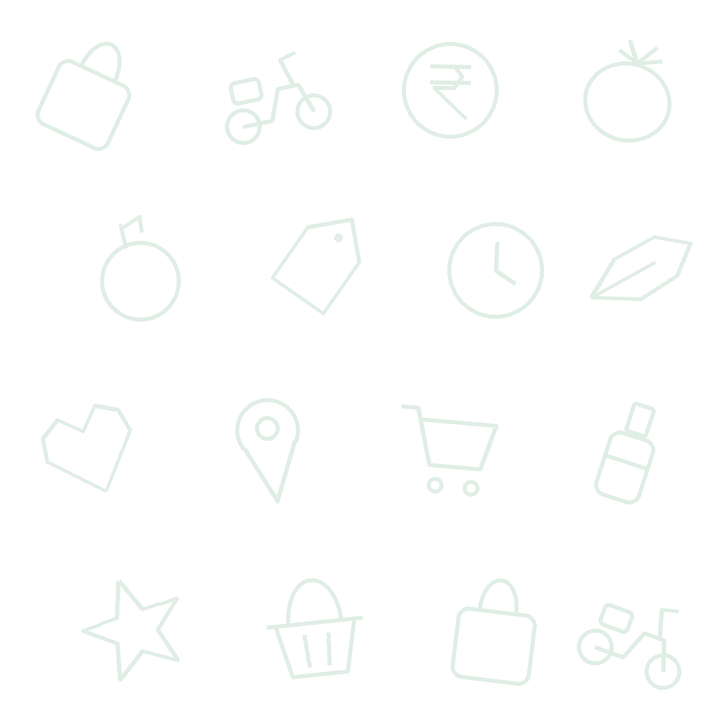
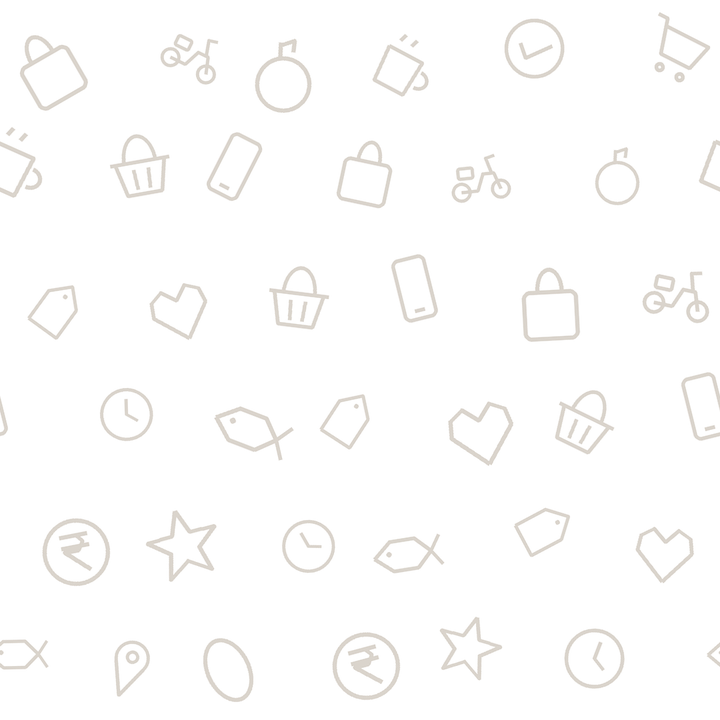
Doodle background: denser WhatsApp-like tile, beige/dark chat base
Claude-Session: https://claude.ai/code/session_013bFooV4NbFYtGjFxvE6vgd

diff --git a/lib/widgets.dart b/lib/widgets.dart
@@ -1096,7 +1096,7 @@ class BgPattern extends StatelessWidget {
     final dark = context.select<AppState, bool>((s) => s.dark);
     return DecoratedBox(
       decoration: BoxDecoration(
-        color: P.bg,
+        color: dark ? const Color(0xFF0B141A) : const Color(0xFFEFEAE2), // WhatsApp chat பின்னணி போல
         image: DecorationImage(
           image: AssetImage(dark ? 'assets/bg_dark.png' : 'assets/bg_light.png'),
           repeat: ImageRepeat.repeat,
